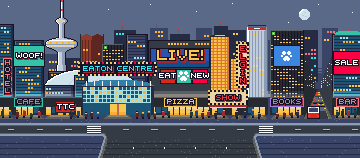
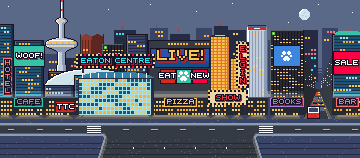
Draw Yonge Street's backdrop as seen from far off: the Eaton Centre one huge glass mall under its galleria vault with no entrance, podiums lit in window runs in place of doors and shopfronts, no soffit under the SHOW marquee and no crowd

Changed region(s): [[0.0, 0.3291, 0.8556, 0.7595], [0.9167, 0.6582, 1.0, 0.7595]]

diff --git a/art/tools/backdrops.py b/art/tools/backdrops.py
@@ -1968,20 +1968,12 @@ def dundas_screens(cv, x, w, top):
 
 
 def street_level(cv, x, w, seed, sign=None):
-    """A tower's street level, rows BASE - 18 to BASE: a coal front under an ash canopy edge, shop
-    glass in 5-column bays, most lit gold under a cream top and some dark, and over it a neon sign,
-    (word, colour), on an ink board edged in its colour. Returns whether any bay is lit."""
+    """A tower's lit podium seen from far off, rows BASE - 18 to BASE: coal under an ash top edge, its
+    floors lit in runs of 2x2 windows, gold, amber and cream, with no doors or shopfronts; and over it a
+    neon sign, (word, colour), on an ink board edged in its colour."""
     cv.fill(x, BASE - 18, w, 18, "coal")
     cv.fill(x, BASE - 18, w, 1, "ash")
-    rnd = random.Random(f"street-{seed}")
-    any_on = False
-    for bx in range(x + 2, x + w - 6, 6):
-        on = rnd.random() < 0.7
-        cv.fill(bx, BASE - 8, 5, 8, "gold" if on else "dlake")
-        cv.fill(bx, BASE - 2, 5, 2, "amber" if on else "navy")
-        if on:
-            cv.fill(bx, BASE - 8, 5, 2, "cream")
-            any_on = True
+    lit(cv, x + 2, x + w - 2, BASE - 14, BASE, f"podium-{seed}", 1.2, ("gold", "amber", "cream"))
     if sign:
         s, col = sign
         bw = fonts.sign_width(s) + 4
@@ -1989,11 +1981,10 @@ def street_level(cv, x, w, seed, sign=None):
         cv.fill(bx, BASE - 17, bw, 9, "ink")
         outline_box(cv, bx, BASE - 17, bw, 9, col)
         word(cv, s, x + w / 2, BASE - 17, col)
-    return any_on
 
 
 def front_pool(cv, x0, x1, skip=()):
-    """A lit shopfront's light on the far sidewalk, rows BASE to FAR_WALK, under columns x0 to x1: stone
+    """A lit podium's light on the far sidewalk, rows BASE to FAR_WALK, under columns x0 to x1: stone
     on its first 2 rows inside a dstone edge, each row out a column wider a side, with no pixel in the
     column ranges skip (the side street's mouth)."""
     rows = FAR_WALK - BASE
@@ -2032,10 +2023,11 @@ def blade(cv, x, top, text, col):
 
 
 def eaton_centre(cv, x, w, top):
-    """The Eaton Centre: a dlake glass front from row top to the street under the galleria's barrel vault
-    of lake glass on white ribs, white mullions every 4 columns and 4 rows, some panes lit gold and amber,
-    a lit gold entrance at its middle, and on the roof the EATON CENTRE sign: cyan letters on an ink
-    board in a 2px border of marquee bulbs, on coal legs."""
+    """The Eaton Centre seen from far off, one huge mall mass with no entrance: the galleria's long barrel
+    vault of lake glass on white ribs across its whole width, then a dlake glass facade from the vault down
+    to the street, its right 3 columns navy in shade, white-foam mullions every 4 columns and 4 rows, its
+    floors lit gold and amber in long runs of 3x3 panes; and on the roof the EATON CENTRE sign: cyan letters
+    on an ink board in a 2px border of marquee bulbs, on coal legs."""
     vault = 7
     for dy in range(vault):
         half = round(w / 2 * math.sqrt(1 - ((vault - dy) / vault) ** 2))
@@ -2045,17 +2037,17 @@ def eaton_centre(cv, x, w, top):
     cv.fill(x, top + vault, w, BASE - top - vault, "dlake")
     cv.fill(x + w - 3, top + vault, 3, BASE - top - vault, "navy")
     rnd = random.Random("eaton")
-    for y in range(top + vault + 1, BASE - 12, 4):
+    for y in range(top + vault + 1, BASE - 2, 4):
+        run, col = 0, None
         for c in range(x + 1, x + w - 4, 4):
-            if rnd.random() < 0.35:
-                cv.fill(c, y, 3, 3, rnd.choice(("gold", "amber", "gold")))
+            if run == 0 and rnd.random() < 0.3:
+                run, col = rnd.randrange(2, 6), rnd.choice(("gold", "amber", "gold"))
+            if run:
+                cv.fill(c, y, 3, 3, col)
+                run -= 1
         cv.fill(x, y + 3, w - 3, 1, "foam")
     for c in range(x + 4, x + w - 3, 4):
-        cv.fill(c, top + vault, 1, BASE - 12 - top - vault, "foam")
-    door = 16
-    cv.fill(round(x + w / 2 - door / 2), BASE - 11, door, 11, "gold")
-    cv.fill(round(x + w / 2 - door / 2), BASE - 3, door, 3, "amber")
-    cv.fill(round(x + w / 2) - 1, BASE - 11, 2, 11, "brown")
+        cv.fill(c, top + vault, 1, BASE - top - vault, "foam")
     outline_box(cv, x, top + vault, w, BASE - top - vault + 1, "navy")
     text = "EATON CENTRE"
     bw = fonts.sign_width(text) + 8
@@ -2142,44 +2134,18 @@ def elgin(cv, x, top, base, text="ELGIN", col="red"):
 
 
 def marquee(cv, x, w, text, col):
-    """A theatre marquee over a street level, columns x to x + w - 1, rows BASE - 25 to BASE - 7: text in
-    col on a cream board in a 2px border of marquee bulbs, a dred underside over a lit cream soffit."""
+    """A theatre marquee over a street level, columns x to x + w - 1, rows BASE - 25 to BASE - 11: text in
+    col on a cream board in a 2px border of marquee bulbs."""
     y = BASE - 25
     cv.fill(x, y, w, 15, "ink")
     cv.fill(x + 2, y + 2, w - 4, 11, "cream")
     bulbs(cv, x, y, w, 15)
     word(cv, text, x + w / 2, y + 4, col)
-    cv.fill(x + 1, y + 15, w - 2, 2, "dred")
-    cv.fill(x + 2, y + 17, w - 4, 1, "cream")
 
 
 # A paw print, 11 by 10: four toe beans over the pad.
 PAW = ("..##...##..", ".####.####.", ".####.####.", "..##...##..", "##.......##", "##..###..##",
        "...#####...", "..#######..", "..#######..", "...##.##...")
-# A figure in the crowd: coats and skins.
-COATS = ("navy", "dred", "coal", "blue", "plum", "teal", "dbrick", "coal")
-SKINS = ("skin1", "skin2", "brown", "bark")
-HAIR = ("bark", "walnut", "ink", "gold", "cream")
-
-
-def crowd(cv, spans, foot, seed, every=6):
-    """Night crowds on the far sidewalk, standing on row foot or the row above across each (x0, x1) of
-    spans, one about every every columns: a 2x2 head under its hair, a 3-column coat, two ink legs."""
-    rnd = random.Random(f"crowd-{seed}")
-    for x0, x1 in spans:
-        x = x0
-        while x < x1:
-            f = foot - rnd.randrange(0, 2)
-            h = rnd.choice((7, 8, 8, 9))
-            top = f - h + 1
-            cv.fill(x, top, 2, 2, rnd.choice(SKINS))
-            cv.fill(x, top, 2, 1, rnd.choice(HAIR))
-            cv.fill(x - rnd.randrange(0, 2), top + 2, 3, h - 4, rnd.choice(COATS))
-            cv.fill(x, f - 1, 1, 2, "ink")
-            cv.fill(x + 1, f - 1, 1, 2, "ink")
-            x += every + rnd.randrange(0, 3)
-
-
 # One ramp step lighter, for the street's glow on the towers' feet.
 UP = dict(navy="dslate", dslate="slate", dlake="lake", shale="ash", coal="shale", ink="coal", lake="shallow",
           blue="cobalt", purple="mauve", dbrick="brick", brick="rust", ochre="amber", slate="grey", ash="stone",
@@ -2259,14 +2225,12 @@ def yonge():
     crown(cv, 332, 32, 34, "turquoise", "turquoise", steps=3)
     uplight(cv, BASE - 24, BASE - 18)
     uplight(cv, BASE - 21, BASE - 18)
-    fronts = []
-    for k, (x, w, sign) in enumerate(((-4, 18, None), (14, 30, ("CAFE", "turquoise")), (44, 30, None),
-                                      (74, 14, None), (CX - 32, 64, ("PIZZA", "gold")), (210, 20, None),
-                                      (230, 14, None), (246, 22, None), (270, 34, ("BOOKS", "lilac")),
-                                      (332, 32, ("BAR", "pink")))):
-        if street_level(cv, x, w, k, sign):
-            fronts.append((x + 1, x + w - 1))
-    eaton_centre(cv, 82, 72, BASE - 36)
+    fronts = ((-4, 18, None), (14, 30, ("CAFE", "turquoise")), (44, 30, None), (74, 14, None),
+              (CX - 32, 64, ("PIZZA", "gold")), (210, 20, None), (230, 14, None), (246, 22, None),
+              (270, 34, ("BOOKS", "lilac")), (332, 32, ("BAR", "pink")))
+    for k, (x, w, sign) in enumerate(fronts):
+        street_level(cv, x, w, k, sign)
+    eaton_centre(cv, 78, 76, BASE - 44)
     blade(cv, 3, 58, "HOTEL", "pink")
     screen(cv, 14, 46, 30, 20, "turquoise", word_art("WOOF!", "white"))
     screen(cv, 274, 46, 26, 20, "azure", paw_art)
@@ -2284,11 +2248,9 @@ def yonge():
         return "slate" if hashed(px, py, 67) else "dslate"
 
     yard(cv, BASE, FAR_WALK, paving)
-    # the lit shopfronts' light on the far sidewalk, and the crowds out under it
-    for x0, x1 in fronts + [(104, 132)]:
+    # the lit podiums' and the Eaton Centre's light on the far sidewalk
+    for x0, x1 in [(x + 1, x + w - 1) for x, w, _ in fronts] + [(79, 153)]:
         front_pool(cv, x0, x1, skip=((300, 334),))
-    crowd(cv, ((2, 40), (70, 100), (136, 170), (190, 226), (236, 262), (276, 300), (336, 358)), FAR_WALK - 1,
-          "yonge")
     # a side street jammed with traffic between the TD tower and the glass, down to the far sidewalk
     side_street(cv, 304, 331, BASE - 26)
 

diff --git a/art/style-guide.md b/art/style-guide.md
@@ -324,7 +324,7 @@ Backdrops are 360×158 on screen rows 48 to 205 (`art/tools/backdrops.py`); band
 - Above the far side's front row the scenery goes back in depth, not taller. The debuff bars and the message strip lie over the band's top rows, so the sky above row 45 is one flat colour with no clouds, stars or scenery. Yonge Street is the exception: its skyline rises above row 45, under the bars' and the strip's opaque plates.
 - Darkness varies: The Beaches bright and open, the Distillery District at golden hour, High Park under a clear blue sky, Cabbagetown at dusk, Yonge Street an evening downtown and Kensington Market darkest, a Pedestrian Sunday at twilight.
 - The CN Tower is the tallest thing on Yonge Street's skyline, its antenna's red light on the band's top row: every other tower and mast tops out below its SkyPod, and those either side of its pod stay low so the pod and its lit window rings stand against the sky.
-- Yonge Street's night is lit in big, clean shapes, never speckle: windows in 2×2 blocks lit in runs along each floor, the 2× LIVE! screen and its ad screens, a WOOF! screen on the glass tower at the left, 2px marquee bulbs (the EATON CENTRE sign, the ELGIN blade, the SHOW marquee), the street's glow a ramp step up the towers' feet, and each lit shopfront's light on the far sidewalk, with crowds standing in it.
+- Yonge Street's night is lit in big, clean shapes, never speckle: windows in 2×2 blocks lit in runs along each floor, the 2× LIVE! screen and its ad screens, a WOOF! screen on the glass tower at the left, 2px marquee bulbs (the EATON CENTRE sign, the ELGIN blade, the SHOW marquee), the street's glow a ramp step up the towers' feet, and each lit podium's light on the far sidewalk. It is seen from far off: building masses, lit window runs, screens and signs, with no doors, shopfronts, awnings or people; the Eaton Centre is one huge glass mall under its galleria vault, with no entrance.
 - Houses on the far side are slim, about as tall as they are wide, under a gable that rises about a row for each column it narrows, past 2px eaves. Light comes from the top left: the roof's left edge a ramp step lighter, the wall's right 3 columns a step darker. Trees, hedges and side yards fill the gaps, and the end houses run off the band's edges so the street carries on. Houses further back are smaller and show between the near roofs.
 - Kensington Market's laneway murals at the band's edges are painted a ramp step darker than `MURAL`, so they sit behind the shopfronts.
 - The approach rows carry no static scenery. The near corners and the stub's verges show only their ground (lawn, paving, sidewalk and curb, as the verge paints them): the game's road begins there and its items spawn over them, so no perch, ornament, tree, lamp, bench, sign or other prop stands there. Everything static stands at or beyond the cross street, and no static vehicle stands on it: the ambient traffic drives there, so a jam (Yonge Street's side street) stays beyond the far sidewalk.
